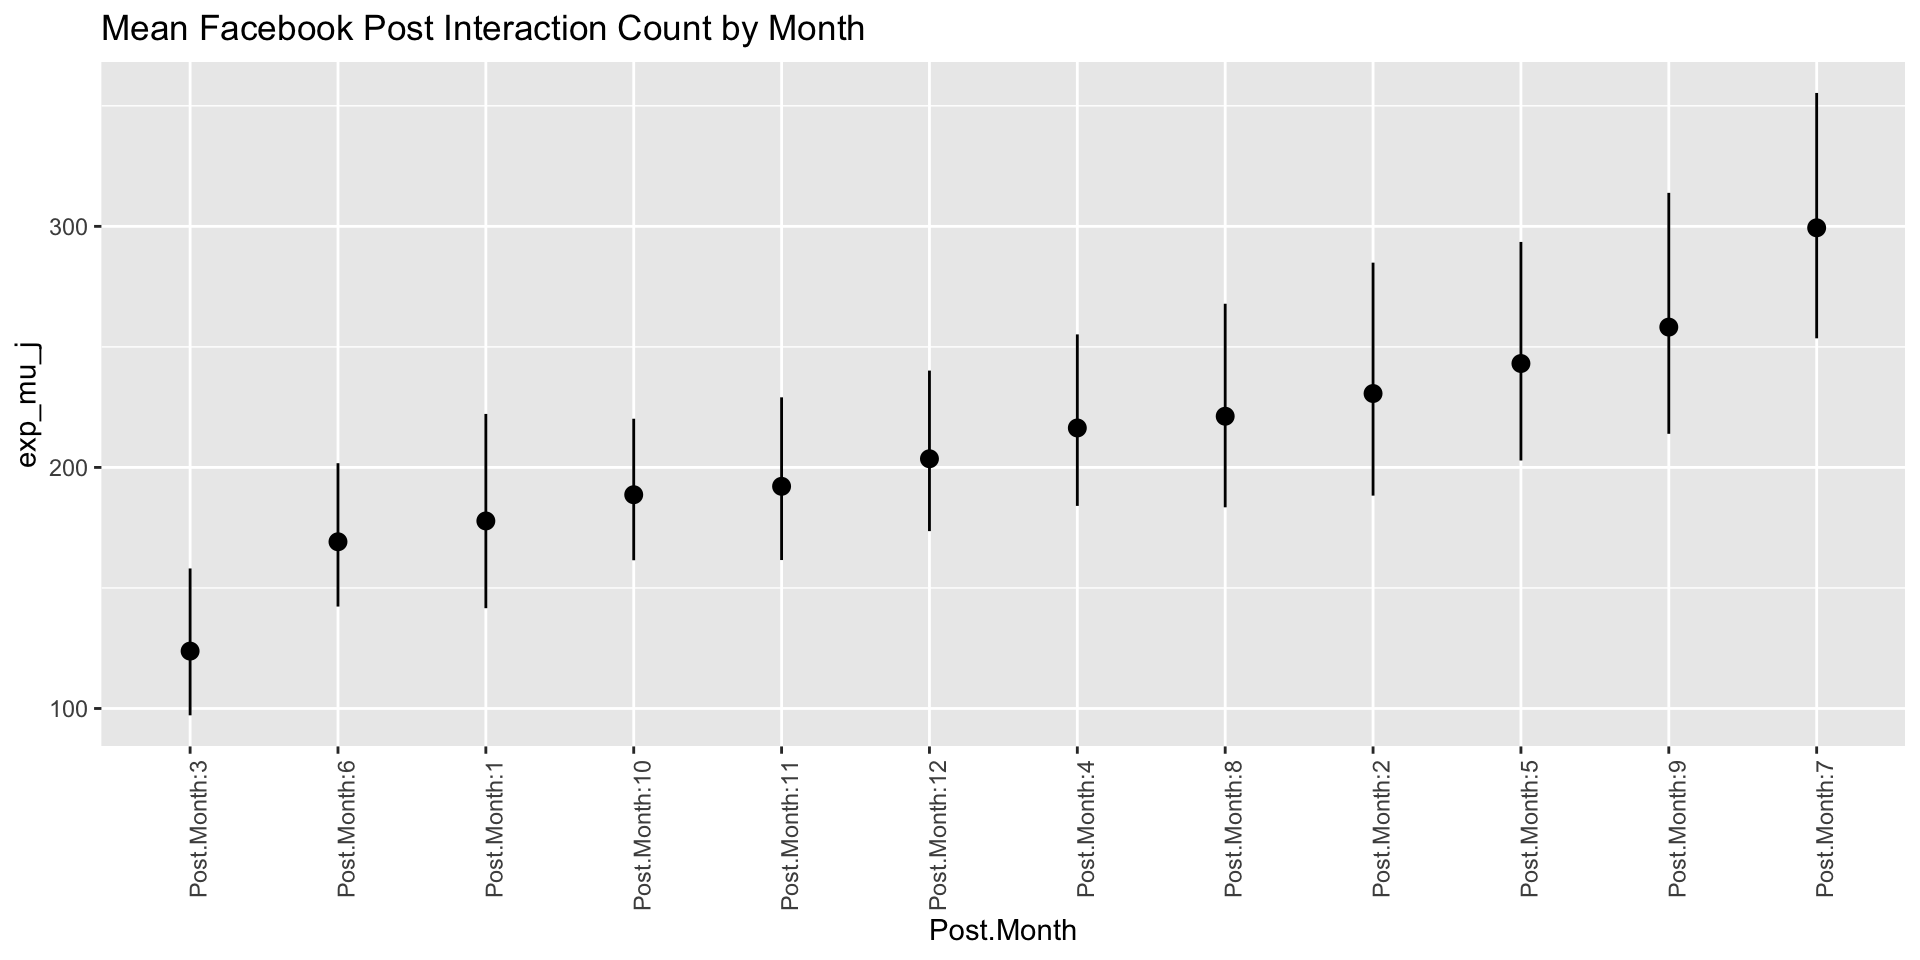
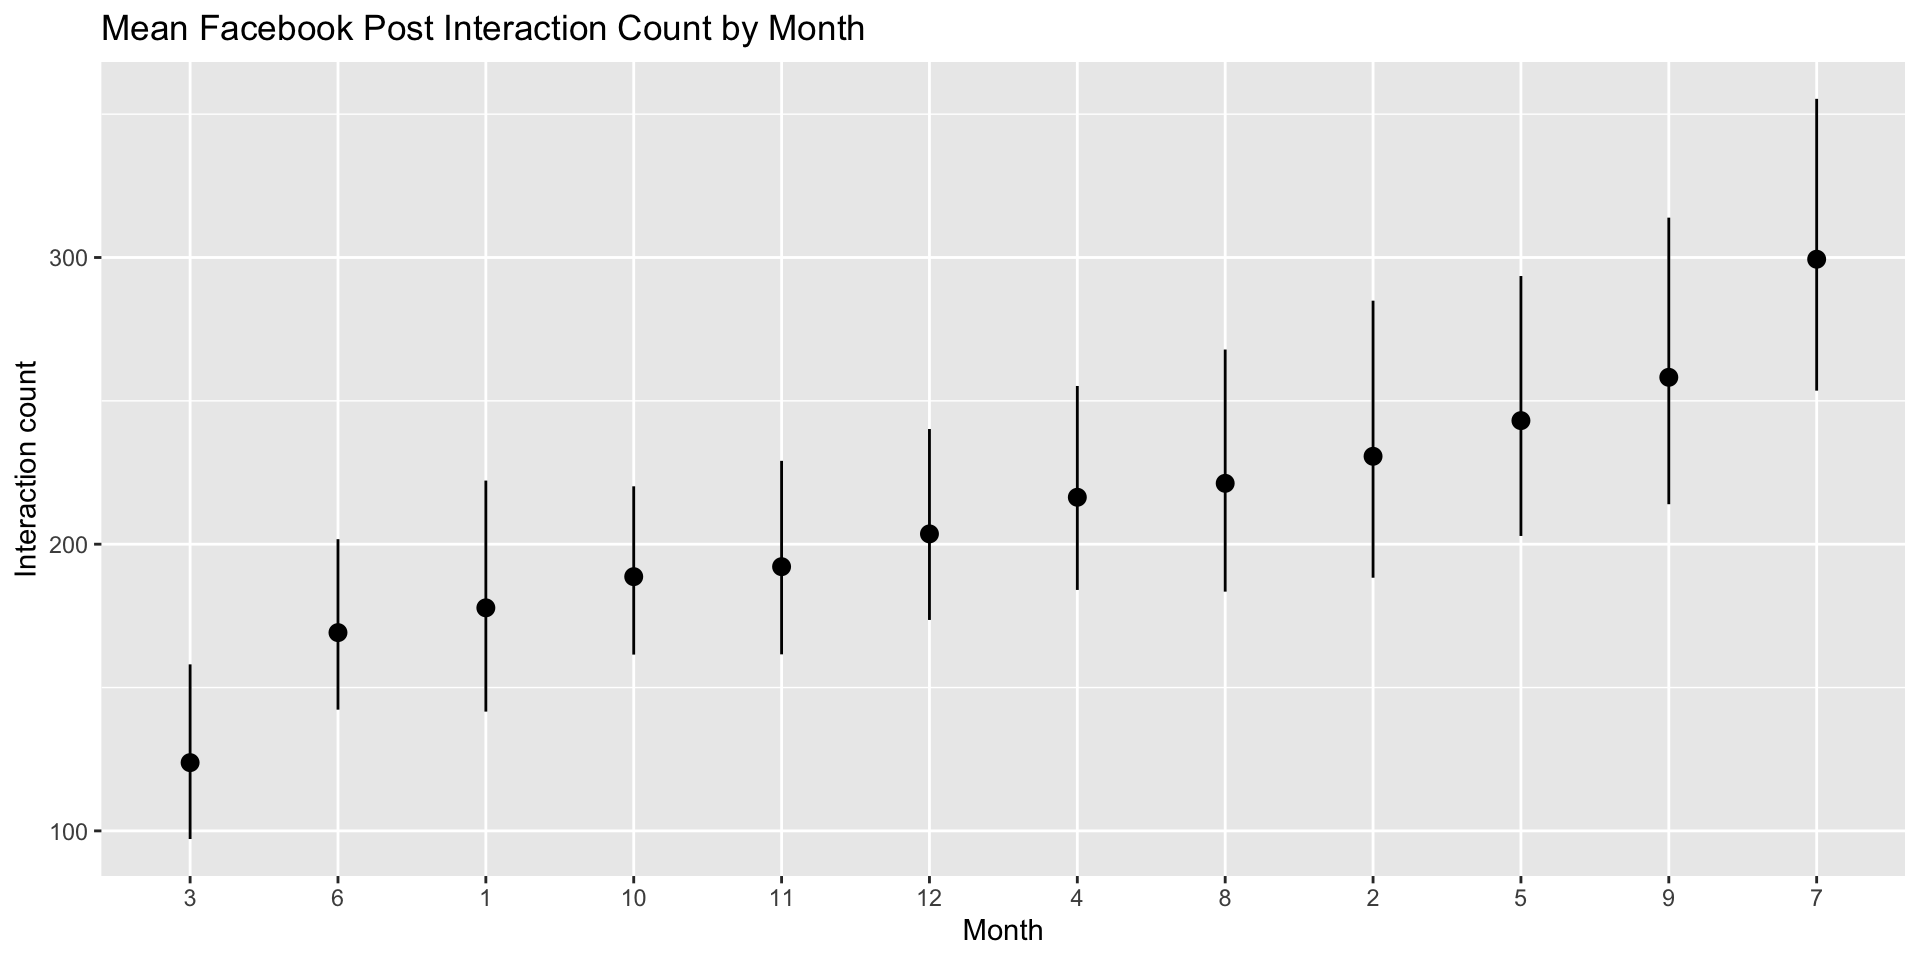
Updated posterior prediction slide

diff --git a/presentation/presentation.html b/presentation/presentation.html
@@ -400,8 +400,8 @@ Anthony, Brandon, Ghadah, Nicholas, Vinh
 <pre><code>
 SAMPLING FOR MODEL 'count' NOW (CHAIN 1).
 Chain 1: 
-Chain 1: Gradient evaluation took 3.6e-05 seconds
-Chain 1: 1000 transitions using 10 leapfrog steps per transition would take 0.36 seconds.
+Chain 1: Gradient evaluation took 0.000225 seconds
+Chain 1: 1000 transitions using 10 leapfrog steps per transition would take 2.25 seconds.
 Chain 1: Adjust your expectations accordingly!
 Chain 1: 
 Chain 1: 
@@ -418,15 +418,15 @@ Chain 1: Iteration: 8000 / 10000 [ 80%]  (Sampling)
 Chain 1: Iteration: 9000 / 10000 [ 90%]  (Sampling)
 Chain 1: Iteration: 10000 / 10000 [100%]  (Sampling)
 Chain 1: 
-Chain 1:  Elapsed Time: 0.290473 seconds (Warm-up)
-Chain 1:                0.306066 seconds (Sampling)
-Chain 1:                0.596539 seconds (Total)
+Chain 1:  Elapsed Time: 0.334387 seconds (Warm-up)
+Chain 1:                0.298588 seconds (Sampling)
+Chain 1:                0.632975 seconds (Total)
 Chain 1: 
 
 SAMPLING FOR MODEL 'count' NOW (CHAIN 2).
 Chain 2: 
-Chain 2: Gradient evaluation took 8e-06 seconds
-Chain 2: 1000 transitions using 10 leapfrog steps per transition would take 0.08 seconds.
+Chain 2: Gradient evaluation took 1.3e-05 seconds
+Chain 2: 1000 transitions using 10 leapfrog steps per transition would take 0.13 seconds.
 Chain 2: Adjust your expectations accordingly!
 Chain 2: 
 Chain 2: 
@@ -443,15 +443,15 @@ Chain 2: Iteration: 8000 / 10000 [ 80%]  (Sampling)
 Chain 2: Iteration: 9000 / 10000 [ 90%]  (Sampling)
 Chain 2: Iteration: 10000 / 10000 [100%]  (Sampling)
 Chain 2: 
-Chain 2:  Elapsed Time: 0.278112 seconds (Warm-up)
-Chain 2:                0.34758 seconds (Sampling)
-Chain 2:                0.625692 seconds (Total)
+Chain 2:  Elapsed Time: 0.292189 seconds (Warm-up)
+Chain 2:                0.404638 seconds (Sampling)
+Chain 2:                0.696827 seconds (Total)
 Chain 2: 
 
 SAMPLING FOR MODEL 'count' NOW (CHAIN 3).
 Chain 3: 
-Chain 3: Gradient evaluation took 1.3e-05 seconds
-Chain 3: 1000 transitions using 10 leapfrog steps per transition would take 0.13 seconds.
+Chain 3: Gradient evaluation took 6e-06 seconds
+Chain 3: 1000 transitions using 10 leapfrog steps per transition would take 0.06 seconds.
 Chain 3: Adjust your expectations accordingly!
 Chain 3: 
 Chain 3: 
@@ -468,15 +468,15 @@ Chain 3: Iteration: 8000 / 10000 [ 80%]  (Sampling)
 Chain 3: Iteration: 9000 / 10000 [ 90%]  (Sampling)
 Chain 3: Iteration: 10000 / 10000 [100%]  (Sampling)
 Chain 3: 
-Chain 3:  Elapsed Time: 0.292692 seconds (Warm-up)
-Chain 3:                0.36273 seconds (Sampling)
-Chain 3:                0.655422 seconds (Total)
+Chain 3:  Elapsed Time: 0.301003 seconds (Warm-up)
+Chain 3:                0.364948 seconds (Sampling)
+Chain 3:                0.665951 seconds (Total)
 Chain 3: 
 
 SAMPLING FOR MODEL 'count' NOW (CHAIN 4).
 Chain 4: 
-Chain 4: Gradient evaluation took 7e-06 seconds
-Chain 4: 1000 transitions using 10 leapfrog steps per transition would take 0.07 seconds.
+Chain 4: Gradient evaluation took 1.2e-05 seconds
+Chain 4: 1000 transitions using 10 leapfrog steps per transition would take 0.12 seconds.
 Chain 4: Adjust your expectations accordingly!
 Chain 4: 
 Chain 4: 
@@ -493,9 +493,9 @@ Chain 4: Iteration: 8000 / 10000 [ 80%]  (Sampling)
 Chain 4: Iteration: 9000 / 10000 [ 90%]  (Sampling)
 Chain 4: Iteration: 10000 / 10000 [100%]  (Sampling)
 Chain 4: 
-Chain 4:  Elapsed Time: 0.308535 seconds (Warm-up)
-Chain 4:                0.340795 seconds (Sampling)
-Chain 4:                0.64933 seconds (Total)
+Chain 4:  Elapsed Time: 0.316107 seconds (Warm-up)
+Chain 4:                0.338458 seconds (Sampling)
+Chain 4:                0.654565 seconds (Total)
 Chain 4: </code></pre>
 </div>
 </div>
@@ -523,8 +523,8 @@ See help('prior_summary.stanreg') for more details</code></pre>
 <pre><code>
 SAMPLING FOR MODEL 'count' NOW (CHAIN 1).
 Chain 1: 
-Chain 1: Gradient evaluation took 0.000113 seconds
-Chain 1: 1000 transitions using 10 leapfrog steps per transition would take 1.13 seconds.
+Chain 1: Gradient evaluation took 0.000116 seconds
+Chain 1: 1000 transitions using 10 leapfrog steps per transition would take 1.16 seconds.
 Chain 1: Adjust your expectations accordingly!
 Chain 1: 
 Chain 1: 
@@ -541,15 +541,15 @@ Chain 1: Iteration: 8000 / 10000 [ 80%]  (Sampling)
 Chain 1: Iteration: 9000 / 10000 [ 90%]  (Sampling)
 Chain 1: Iteration: 10000 / 10000 [100%]  (Sampling)
 Chain 1: 
-Chain 1:  Elapsed Time: 8.27565 seconds (Warm-up)
-Chain 1:                8.26425 seconds (Sampling)
-Chain 1:                16.5399 seconds (Total)
+Chain 1:  Elapsed Time: 8.37834 seconds (Warm-up)
+Chain 1:                8.29936 seconds (Sampling)
+Chain 1:                16.6777 seconds (Total)
 Chain 1: 
 
 SAMPLING FOR MODEL 'count' NOW (CHAIN 2).
 Chain 2: 
-Chain 2: Gradient evaluation took 0.000127 seconds
-Chain 2: 1000 transitions using 10 leapfrog steps per transition would take 1.27 seconds.
+Chain 2: Gradient evaluation took 0.000124 seconds
+Chain 2: 1000 transitions using 10 leapfrog steps per transition would take 1.24 seconds.
 Chain 2: Adjust your expectations accordingly!
 Chain 2: 
 Chain 2: 
@@ -566,15 +566,15 @@ Chain 2: Iteration: 8000 / 10000 [ 80%]  (Sampling)
 Chain 2: Iteration: 9000 / 10000 [ 90%]  (Sampling)
 Chain 2: Iteration: 10000 / 10000 [100%]  (Sampling)
 Chain 2: 
-Chain 2:  Elapsed Time: 8.0805 seconds (Warm-up)
-Chain 2:                9.12686 seconds (Sampling)
-Chain 2:                17.2074 seconds (Total)
+Chain 2:  Elapsed Time: 8.11004 seconds (Warm-up)
+Chain 2:                9.15155 seconds (Sampling)
+Chain 2:                17.2616 seconds (Total)
 Chain 2: 
 
 SAMPLING FOR MODEL 'count' NOW (CHAIN 3).
 Chain 3: 
-Chain 3: Gradient evaluation took 0.000136 seconds
-Chain 3: 1000 transitions using 10 leapfrog steps per transition would take 1.36 seconds.
+Chain 3: Gradient evaluation took 0.000106 seconds
+Chain 3: 1000 transitions using 10 leapfrog steps per transition would take 1.06 seconds.
 Chain 3: Adjust your expectations accordingly!
 Chain 3: 
 Chain 3: 
@@ -591,15 +591,15 @@ Chain 3: Iteration: 8000 / 10000 [ 80%]  (Sampling)
 Chain 3: Iteration: 9000 / 10000 [ 90%]  (Sampling)
 Chain 3: Iteration: 10000 / 10000 [100%]  (Sampling)
 Chain 3: 
-Chain 3:  Elapsed Time: 8.40387 seconds (Warm-up)
-Chain 3:                9.14334 seconds (Sampling)
-Chain 3:                17.5472 seconds (Total)
+Chain 3:  Elapsed Time: 8.3122 seconds (Warm-up)
+Chain 3:                9.15622 seconds (Sampling)
+Chain 3:                17.4684 seconds (Total)
 Chain 3: 
 
 SAMPLING FOR MODEL 'count' NOW (CHAIN 4).
 Chain 4: 
-Chain 4: Gradient evaluation took 0.000114 seconds
-Chain 4: 1000 transitions using 10 leapfrog steps per transition would take 1.14 seconds.
+Chain 4: Gradient evaluation took 0.000125 seconds
+Chain 4: 1000 transitions using 10 leapfrog steps per transition would take 1.25 seconds.
 Chain 4: Adjust your expectations accordingly!
 Chain 4: 
 Chain 4: 
@@ -616,9 +616,9 @@ Chain 4: Iteration: 8000 / 10000 [ 80%]  (Sampling)
 Chain 4: Iteration: 9000 / 10000 [ 90%]  (Sampling)
 Chain 4: Iteration: 10000 / 10000 [100%]  (Sampling)
 Chain 4: 
-Chain 4:  Elapsed Time: 8.58391 seconds (Warm-up)
-Chain 4:                8.4808 seconds (Sampling)
-Chain 4:                17.0647 seconds (Total)
+Chain 4:  Elapsed Time: 8.5827 seconds (Warm-up)
+Chain 4:                8.56431 seconds (Sampling)
+Chain 4:                17.147 seconds (Total)
 Chain 4: </code></pre>
 </div>
 <div class="cell-output cell-output-stdout">
@@ -688,7 +688,10 @@ For each parameter, mcse is Monte Carlo standard error, n_eff is a crude measure
 <img data-src="presentation_files/figure-revealjs/unnamed-chunk-10-1.png" width="960" class="r-stretch"></section>
 <section id="global-parameters" class="slide level2">
 <h2>Global Parameters</h2>
-<p>We must exponentiate these parameter values because a log link is used in our model. For example, the average month has a mean interaction count between <span class="math inline">\(exp(5.20059) = 181.4\)</span> and <span class="math inline">\(exp(5.451064) = 233.0\)</span>.</p>
+<ul>
+<li><p>We must exponentiate these parameter values because a log link is used in our model</p></li>
+<li><p>The average month likely has a mean interaction count between <span class="math inline">\(e^{5.20059}= 181.4\)</span> and <span class="math inline">\(e^{5.451064} = 233.0\)</span></p></li>
+</ul>
 <div class="cell">
 <div class="cell-output-display">
 <table>
@@ -715,8 +718,11 @@ For each parameter, mcse is Monte Carlo standard error, n_eff is a crude measure
 </div>
 </section>
 <section id="credible-intervals" class="slide level2">
-<h2>Credible Intervals</h2>
-<p>Similarly,</p>
+<h2>80% Credible Intervals</h2>
+<ul>
+<li><p>Below are credible intervals for each month</p></li>
+<li><p>For month 1, there is an 80% chance that the mean interaction rate is between <span class="math inline">\(e^{-0.3823} = 0.68\)</span> and <span class="math inline">\(e^{0.0898}= 1.09\)</span> above the average month</p></li>
+</ul>
 <div class="cell">
 <div class="cell-output-display">
 <table>
@@ -768,12 +774,56 @@ For each parameter, mcse is Monte Carlo standard error, n_eff is a crude measure
 <img data-src="presentation_files/figure-revealjs/unnamed-chunk-14-1.png" width="960" class="r-stretch"></section>
 <section id="hypothesis-testing" class="slide level2">
 <h2>Hypothesis Testing</h2>
-<p>Find the 95% CI for <span class="math inline">\(\mu\)</span> and check if all <span class="math inline">\(\mu_j\)</span> fall within the 95% CI</p>
-<p><span class="math inline">\(H_o\)</span> = All <span class="math inline">\(\mu_j\)</span> are equal <span class="math inline">\(H_\alpha\)</span> = The null hypothesis is not true. With 95% CI for <span class="math inline">\(\mu\)</span> being (5.12211236, 5.5221324), Not all of the <span class="math inline">\(\mu_j\)</span> fall within this range. Therefore we can reject the null hypothesis and conclude that not all <span class="math inline">\(\mu_j\)</span> are equal.</p>
+<ul>
+<li><p>We find the 95% CI for <span class="math inline">\(\mu\)</span> and check if all <span class="math inline">\(\mu_j\)</span> fall within the 95% CI</p></li>
+<li><p><span class="math inline">\(H_o\)</span> = All <span class="math inline">\(\mu_j\)</span> are equal vs <span class="math inline">\(H_\alpha\)</span> = The null hypothesis is not true</p></li>
+</ul>
+<div class="cell">
+<div class="cell-output-display">
+<table>
+<thead>
+<tr class="header">
+<th style="text-align: left;">Post.Month</th>
+<th style="text-align: right;">mu_j</th>
+</tr>
+</thead>
+<tbody>
+<tr class="odd">
+<td style="text-align: left;">Post.Month:1</td>
+<td style="text-align: right;">5.180666</td>
+</tr>
+<tr class="even">
+<td style="text-align: left;">Post.Month:3</td>
+<td style="text-align: right;">4.818727</td>
+</tr>
+<tr class="odd">
+<td style="text-align: left;">Post.Month:5</td>
+<td style="text-align: right;">5.493499</td>
+</tr>
+<tr class="even">
+<td style="text-align: left;">Post.Month:7</td>
+<td style="text-align: right;">5.701782</td>
+</tr>
+<tr class="odd">
+<td style="text-align: left;">Post.Month:9</td>
+<td style="text-align: right;">5.553785</td>
+</tr>
+</tbody>
+</table>
+</div>
+</div>
+</section>
+<section id="hypothesis-testing-cont." class="slide level2">
+<h2>Hypothesis Testing (cont.)</h2>
+<ul>
+<li><p>The 95% CI for <span class="math inline">\(\mu\)</span> is (5.122, 5.525), but some <span class="math inline">\(\mu_j\)</span> evidently fall above or below this range</p></li>
+<li><p>Therefore we reject the null hypothesis and have evidence that not all <span class="math inline">\(\mu_j\)</span> are equal</p></li>
+</ul>
 </section>
 <section id="posterior-predictions" class="slide level2">
 <h2>Posterior Predictions</h2>
-</section>
+
+<img data-src="presentation_files/figure-revealjs/unnamed-chunk-16-1.png" width="960" class="r-stretch"></section>
 <section id="results" class="slide level2">
 <h2>Results</h2>
 <div class="footer footer-default">
